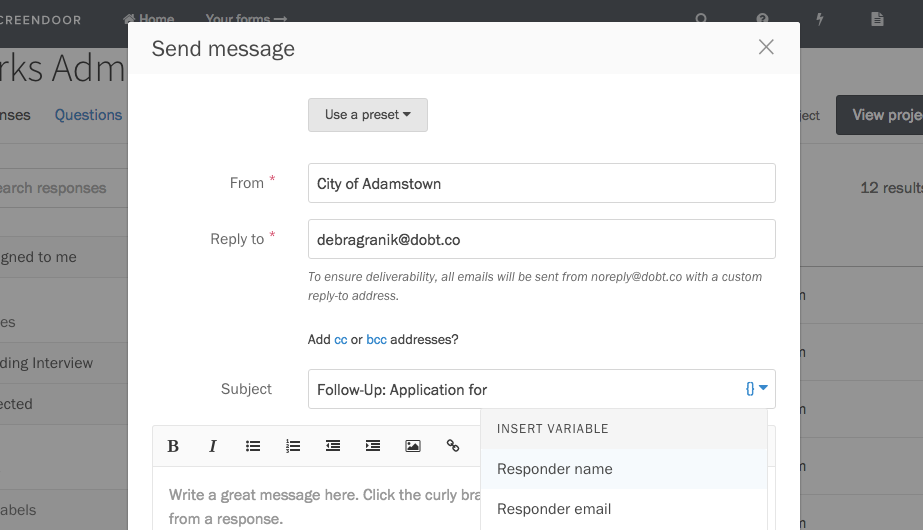
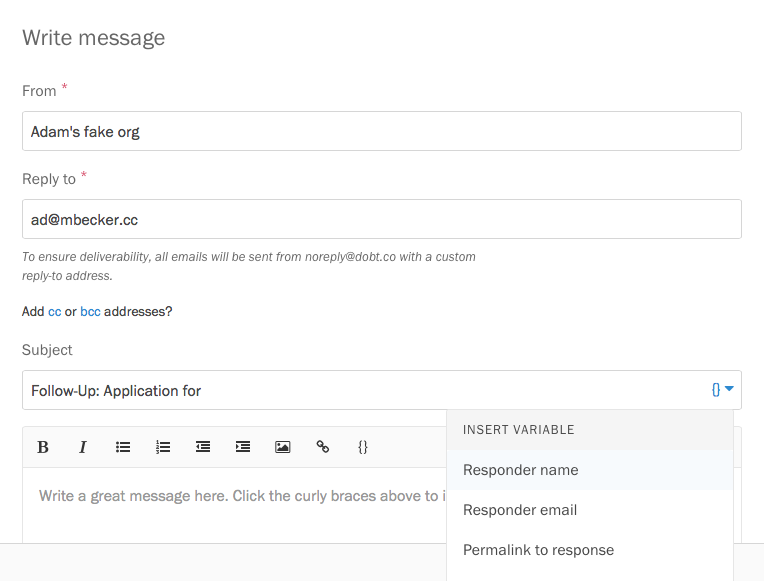
Update message screenshots and tweak copy

diff --git a/contents/articles/screendoor/messages/sending_messages.md b/contents/articles/screendoor/messages/sending_messages.md
@@ -16,7 +16,7 @@ To start, visit the Responses page for your project and check the responses you 
 
 ![Sending a message.](../images/messages_1.png)
 
-Enter a reply-to address, a subject line, and your message in the modal that appears.
+Enter a reply-to address, a subject line, and your message on the page that appears.
 
 ### Using variables
 
